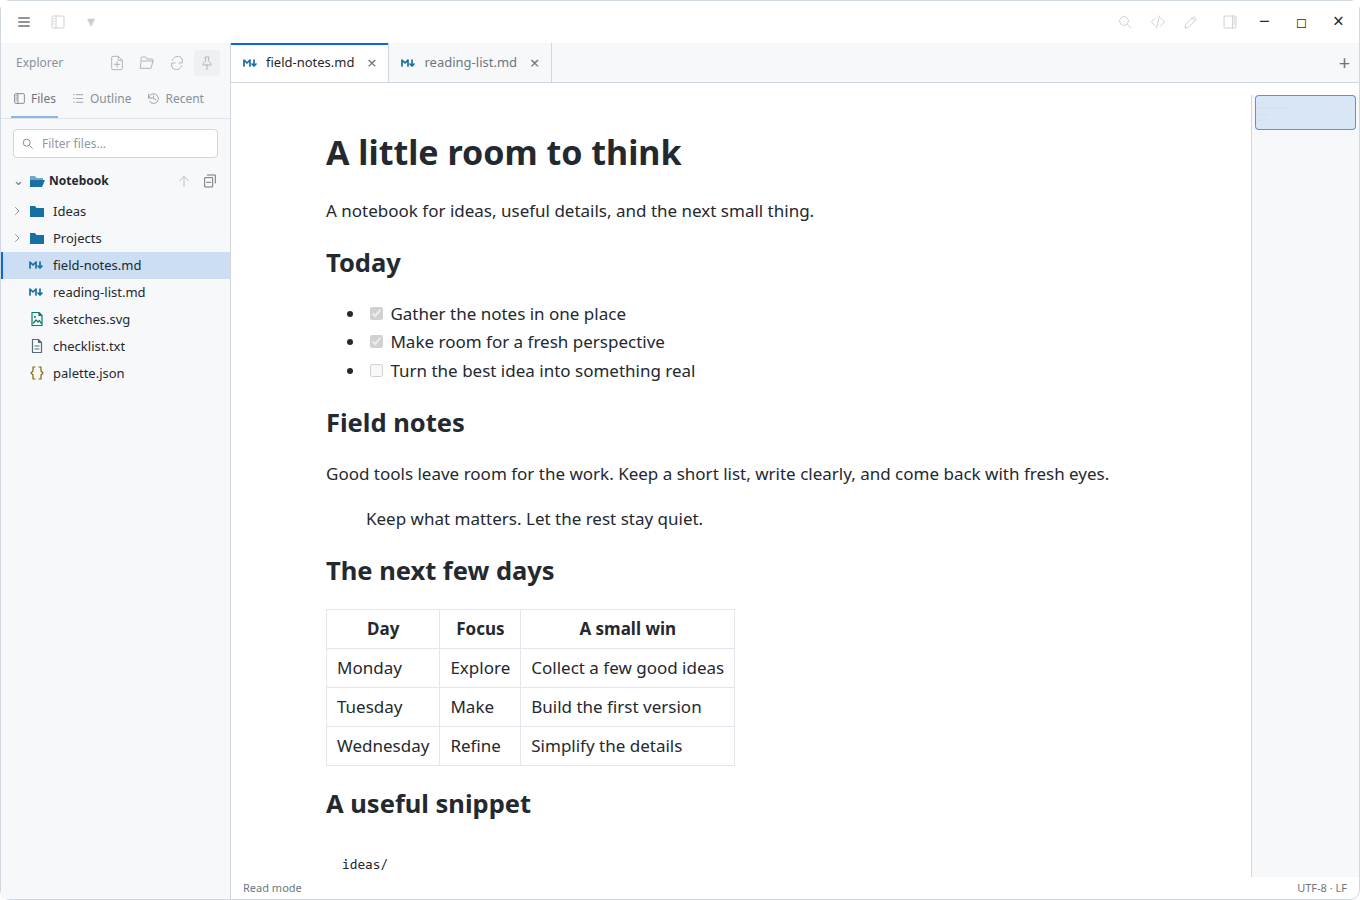
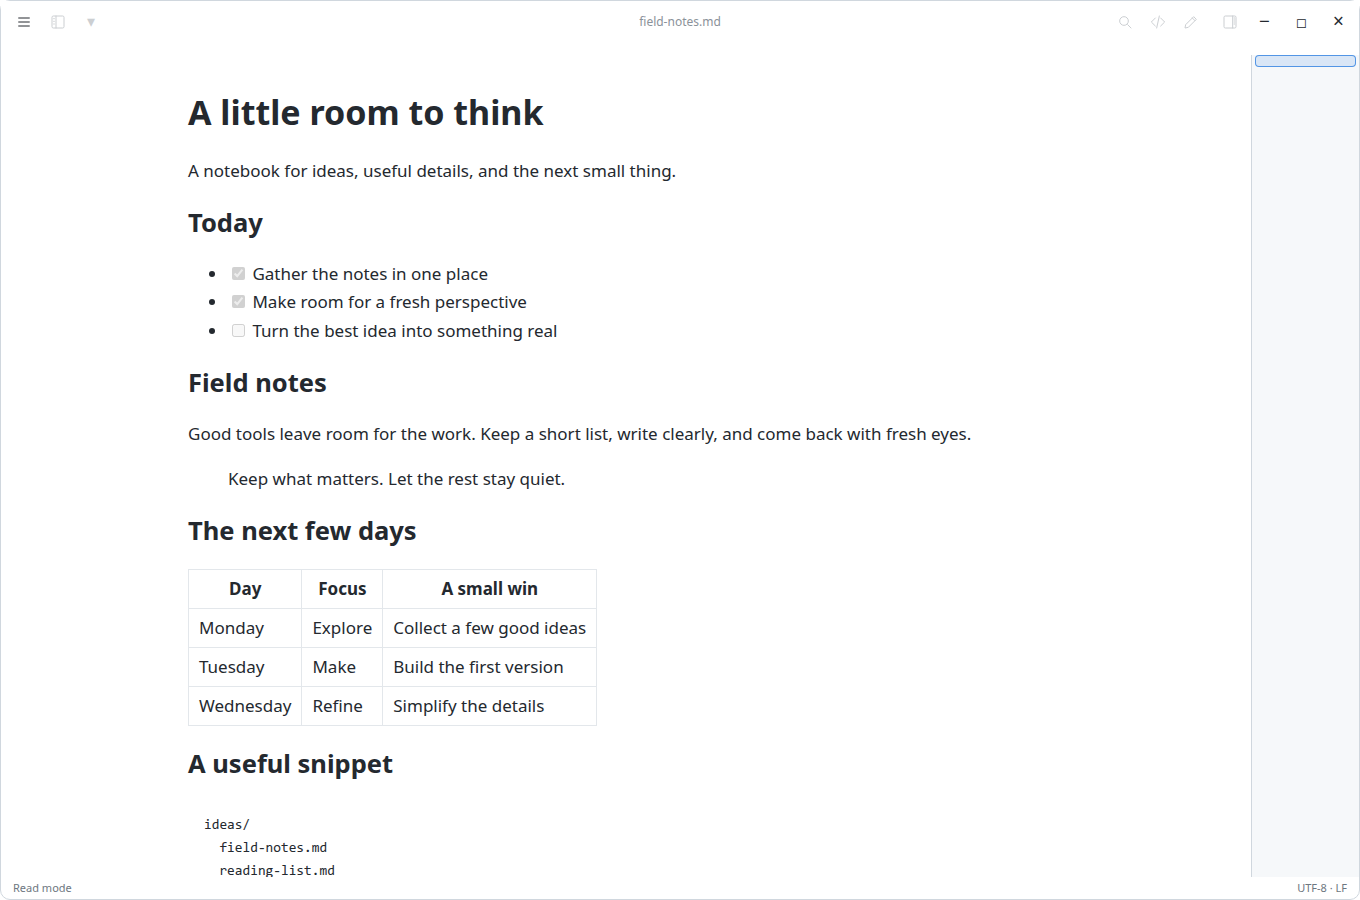
Prepare clean release archives and simplify the opening screenshot

diff --git a/scripts/package-release.py b/scripts/package-release.py
@@ -1,0 +1,132 @@
+#!/usr/bin/env python3
+"""Package reviewed release files without runtime data or host archive metadata."""
+import argparse
+import hashlib
+import json
+import os
+from pathlib import Path
+import plistlib
+import re
+import stat
+import subprocess
+import zipfile
+
+
+def digest(data):
+    return hashlib.sha256(data).hexdigest()
+
+
+def audit(name, data, private_markers):
+    # UTF-16 covers strings embedded by Windows compilers and resource tools.
+    for marker in private_markers:
+        for encoding in ('utf-8', 'utf-16-le', 'utf-16-be'):
+            if marker.encode(encoding) in data:
+                raise ValueError(f'Private marker found in {name}; package withheld')
+    for text in (data.decode('latin1'), data.decode('utf-16-le', errors='ignore')):
+        if re.search(r'/(?:home|Users)/[A-Za-z0-9_.-]+|[A-Za-z]:[\\/]Users[\\/]', text):
+            raise ValueError(f'Development home path found in {name}; package withheld')
+        if re.search(r'-----BEGIN (?:RSA |EC |OPENSSH )?PRIVATE KEY-----|\bgh[pousr]_[A-Za-z0-9]{30,}', text):
+            raise ValueError(f'Credential pattern found in {name}; package withheld')
+
+
+def main():
+    parser = argparse.ArgumentParser(description=__doc__)
+    parser.add_argument('platform', choices=('linux', 'windows', 'macos'))
+    parser.add_argument('--macos-archive', type=Path)
+    parser.add_argument('--private-marker', action='append', default=[], help='Additional private text to reject; never written into a package')
+    args = parser.parse_args()
+    repo = Path(__file__).resolve().parent.parent
+    root = repo.parent
+    cargo = (repo / 'Cargo.toml').read_text()
+    name = re.search(r'^name = "([^"]+)"', cargo, re.M)[1]
+    version = re.search(r'^version = "([^"]+)"', cargo, re.M)[1]
+    display = re.search(r'^display-name = "([^"]+)"', cargo, re.M)[1]
+    arch = 'arm64' if args.platform == 'macos' else 'x86_64'
+    label = f'{name}-{version}-{args.platform}-{arch}'
+    files = {}
+    executable = set()
+    if args.platform == 'macos':
+        if not args.macos_archive:
+            parser.error('--macos-archive is required for macos')
+        bundle = f'{display}.app/Contents/'
+        approved = {bundle + path for path in ('Info.plist', '_CodeSignature/CodeResources', 'Resources/AppIcon.icns', f'MacOS/{name}')}
+        with zipfile.ZipFile(args.macos_archive) as source:
+            entries = [entry for entry in source.infolist() if not entry.is_dir()]
+            if len(entries) != len(approved) or {e.filename for e in entries} != approved:
+                raise ValueError('Unexpected files in app bundle; review before packaging')
+            for entry in entries:
+                if stat.S_ISLNK(entry.external_attr >> 16):
+                    raise ValueError('Symlinks are not in the approved bundle manifest')
+                files[entry.filename] = source.read(entry)
+        info = plistlib.loads(files[bundle + 'Info.plist'])
+        if info.get('CFBundleShortVersionString') != version:
+            raise ValueError('App bundle version does not match source')
+        binary = files[bundle + f'MacOS/{name}']
+        if binary[:4] != b'\xcf\xfa\xed\xfe' or int.from_bytes(binary[4:8], 'little') != 0x0100000C:
+            raise ValueError('Expected an arm64 Mach-O executable')
+        executable.add(bundle + f'MacOS/{name}')
+        instructions = f'Place {display}.app in a writable folder. Requires macOS 14 or newer on Apple Silicon.\nThis package is ad-hoc signed, not notarized. Settings, logs and recovery data are created in {name}-data beside the app.\n'
+    else:
+        approved = [name] if args.platform == 'linux' else [name + '.exe', 'WebView2Loader.dll', 'installed.json', 'register-file-types.ps1']
+        for filename in approved:
+            path = root / 'deploy' / args.platform / filename
+            if not path.is_file() or path.is_symlink():
+                raise ValueError(f'Missing regular release file: {filename}')
+            files[filename] = path.read_bytes()
+        if args.platform == 'linux':
+            if not files[name].startswith(b'\x7fELF\x02\x01') or int.from_bytes(files[name][18:20], 'little') != 62:
+                raise ValueError('Expected an ELF executable')
+            executable.add(name)
+            versions = re.findall(rb'GLIBC_([0-9]+\.[0-9]+(?:\.[0-9]+)?)\x00', files[name])
+            if not versions:
+                raise ValueError('Cannot determine the required C library version')
+            glibc = max(versions, key=lambda value: tuple(map(int, value.split(b'.')))).decode()
+            instructions = f'Extract the complete folder, then run ./{name}.\nRequires x86-64 Linux with glibc {glibc} or newer, GTK 3, WebKitGTK 4.1 and its runtime dependencies.\nSettings, logs and recovery data are created beside the executable. Keep this folder writable.\n'
+        else:
+            if not files[name + '.exe'].startswith(b'MZ'):
+                raise ValueError('Expected a Windows executable')
+            binary = files[name + '.exe']
+            offset = int.from_bytes(binary[60:64], 'little')
+            if binary[offset:offset+6] != b'PE\x00\x00\x64\x86':
+                raise ValueError('Expected an x86-64 Windows executable')
+            installed = json.loads(files['installed.json'])
+            if installed != {'name': name, 'version': version}:
+                raise ValueError('Installation manifest does not match source')
+            instructions = f'Extract the complete folder and run {name}.exe. Keep WebView2Loader.dll beside it.\nRequires x64 Windows and the WebView2 runtime. Keep this folder writable for settings, logs and recovery data.\nOptional: register-file-types.ps1 registers Markdown Open with entries for the current user; -Remove reverses registration.\n'
+    files['Read Me.txt'] = (f'{display} {version}\n\n' + instructions + '\nThis archive contains application files only. Existing settings are not included.\n').encode()
+    revision = subprocess.check_output(['git', '-C', str(repo), 'rev-parse', 'HEAD'], text=True).strip()
+    manifest = {'name': name, 'version': version, 'platform': args.platform, 'architecture': arch,
+                'source_revision': revision, 'files': {key: digest(value) for key, value in sorted(files.items())}}
+    files['release.json'] = (json.dumps(manifest, indent=2) + '\n').encode()
+    markers = [str(Path.home()), str(root), *args.private_marker]
+    for filename, data in files.items():
+        if not data:
+            raise ValueError(f'Empty release file: {filename}')
+        audit(filename, data, markers)
+    out = root / 'dists'
+    scratch = root / 'tmp' / 'packages'
+    out.mkdir(exist_ok=True)
+    scratch.mkdir(parents=True, exist_ok=True)
+    target = out / (label + '.zip')
+    staged = scratch / (label + f'.{os.getpid()}.zip')
+    with zipfile.ZipFile(staged, 'w', compression=zipfile.ZIP_DEFLATED, compresslevel=9) as archive:
+        for filename, data in sorted(files.items()):
+            entry = zipfile.ZipInfo(label + '/' + filename, date_time=(1980, 1, 1, 0, 0, 0))
+            entry.create_system = 3
+            entry.external_attr = (stat.S_IFREG | (0o755 if filename in executable else 0o644)) << 16
+            entry.compress_type = zipfile.ZIP_DEFLATED
+            archive.writestr(entry, data)
+    with zipfile.ZipFile(staged) as archive:
+        if archive.testzip() is not None:
+            raise ValueError('Archive integrity check failed')
+        for filename, data in files.items():
+            if archive.read(label + '/' + filename) != data:
+                raise ValueError('Archive bytes changed unexpectedly')
+    staged.replace(target)
+    sha = digest(target.read_bytes())
+    target.with_suffix('.zip.sha256').write_text(f'{sha}  {target.name}\n')
+    print(f'{target.name}: {len(files)} reviewed files; SHA-256 {sha}')
+
+
+if __name__ == '__main__':
+    main()

diff --git a/README.md b/README.md
@@ -6,7 +6,7 @@
 <p align="center">A quiet desktop workspace for notes, Markdown, source files, and images.</p>
 <p align="center">Windows · Linux · macOS</p>
 
-![Markdown workspace with tabs, file explorer, and document map](assets/screenshots/workspace.png)
+![Single-document reading view with the file browser closed and no tabs](assets/screenshots/workspace.png)
 
 Read a document, switch to its source, and edit it in the same window. BS Notepad keeps the controls subtle, your files close by, and the colors your own.
 
@@ -83,7 +83,8 @@ The build scripts expect a checkout named `repo` inside a project directory. Out
 bs-notepad/
 ├── repo/       # this repository
 ├── tmp/        # compilation, caches, and test output
-└── deploy/     # built application packages
+├── deploy/     # built application files
+└── dists/      # reviewed distribution ZIPs and checksums
 ```
 
 Clone your chosen repository URL into that layout:
@@ -147,6 +148,18 @@ CARGO_TARGET_DIR="$PWD/tmp/target" TMPDIR="$PWD/tmp/build" \
 ```
 
 `repo/scripts/check-ui.sh` exercises the exported interface and image viewers with `agent-browser`. `repo/scripts/check-portable.sh` checks a built Linux application on a virtual display and requires Xvfb. These tools must already be installed; the scripts do not install them.
+
+### Distribution archives
+
+After building, package only the approved application files:
+
+```sh
+python3 repo/scripts/package-release.py linux
+python3 repo/scripts/package-release.py windows
+python3 repo/scripts/package-release.py macos --macos-archive deploy/macos/bs-notepad-0.7.4-arm64.zip
+```
+
+The packager writes ZIPs and SHA-256 checksums to `dists/` outside Git. It uses explicit file manifests, checks for development home paths, and omits host archive metadata. Use `--private-marker` to reject additional private text. Settings, recovery files, logs, and browser profiles are never part of these packages. The supplied Linux package requires glibc 2.39 or newer in addition to its GUI libraries.
 
 ## Project
 
